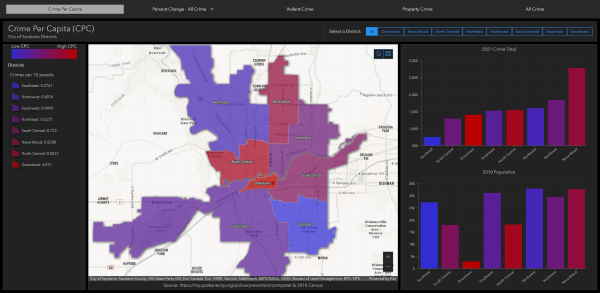
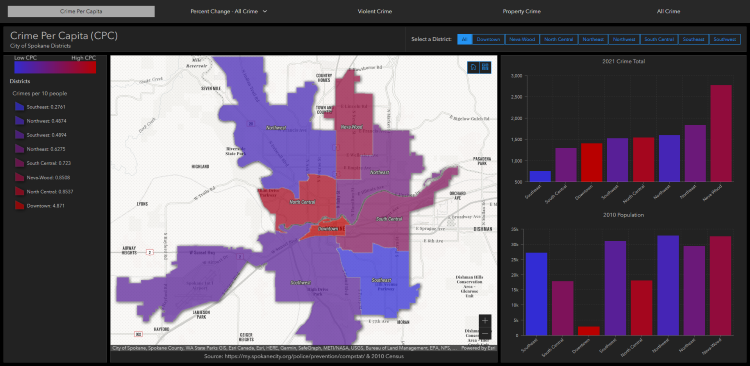
Image sizes and css style for mobile

diff --git a/style.css b/style.css
@@ -162,10 +162,12 @@ ul.main-menu li a.active {
   display: block;
   margin-left: auto;
   margin-right: auto;
+  height: 100%;
+  width: 100%;
 }
 
 .projecthead {
   text-align: center;
   text-decoration: underline;
-  text-decoration-color:#EF6D3D
+  text-decoration-color:#EF6D3D;
 }
